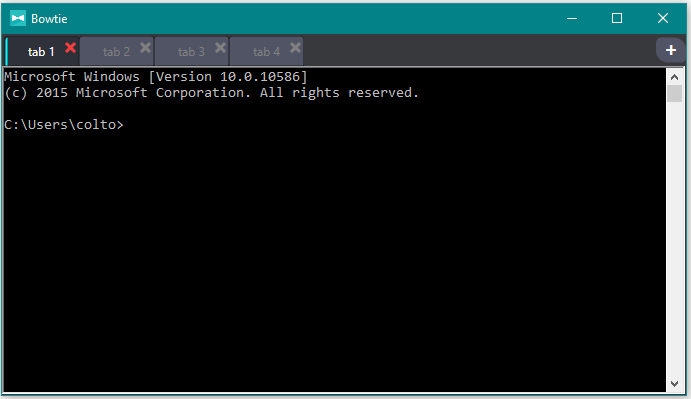
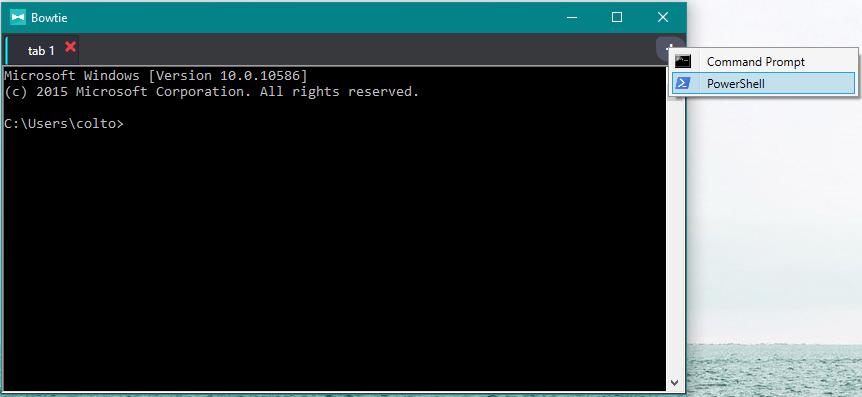
Removed comments, Added powershell, fixed bugs

Changed region(s): [[0.0, 0.0, 1.0, 1.0], [0.699, 0.0302, 0.7294, 0.0605]]

diff --git a/Bowtie/MainWindow.xaml b/Bowtie/MainWindow.xaml
@@ -8,13 +8,6 @@
         mc:Ignorable="d" SizeChanged="Window_SizeChanged"
         Title="Bowtie" Height="400" Width="700" Background="#FF37393C" AllowsTransparency="False"  Icon="Resources\Icon.ico" Closing="Window_Closing">
 	
-	<!--<shell:WindowChrome.WindowChrome>
-		<shell:WindowChrome
-            CornerRadius="15,15,5,5"
-            GlassFrameThickness="0" 
-			CaptionHeight="0">
-		</shell:WindowChrome>
-	</shell:WindowChrome.WindowChrome>-->
 	<Window.Resources>
 		<ResourceDictionary>
 			<Style x:Key="MetroWindowButtonStyle" TargetType="{x:Type Button}">
@@ -64,28 +57,7 @@
 		<Grid.ColumnDefinitions>
 			<ColumnDefinition Width="*" />
 		</Grid.ColumnDefinitions>
-		<!--<Border Grid.Row="0" Background="#FF212229" MouseLeftButtonDown="Border_LeftMouseDown">
-			--><!--Window Icon and Title--><!--
-			<DockPanel>
-				<Image  Source="Resources/Icon.ico" Width="18" Height="18" Margin="10,0,0,0" />
-				<TextBlock Text="Bowtie" Margin="10" 
-				FontFamily="Calibri" FontWeight="Bold" 
-				Foreground="#FF6C6C74" VerticalAlignment="Center"/>
-				<Button Name="Close" DockPanel.Dock="Right" Margin="5" Height="20" Width="20" Style="{DynamicResource MetroWindowButtonStyle}" Click="Close_Click">
-					<Path Data="F1M54.0573,47.8776L38.1771,31.9974 54.0547,16.1198C55.7604,14.4141 55.7604,11.6511 54.0573,9.94531 52.3516,8.23962 49.5859,8.23962 47.8802,9.94531L32.0026,25.8229 16.1224,9.94531C14.4167,8.23962 11.6511,8.23962 9.94794,9.94531 8.24219,11.6511 8.24219,14.4141 9.94794,16.1198L25.8255,32 9.94794,47.8776C8.24219,49.5834 8.24219,52.3477 9.94794,54.0534 11.6511,55.7572 14.4167,55.7585 16.1224,54.0534L32.0026,38.1745 47.8802,54.0534C49.5859,55.7585 52.3516,55.7572 54.0573,54.0534 55.7604,52.3477 55.763,49.5834 54.0573,47.8776z"
-                                Stretch="Uniform" Fill="#FFAAAAAA" Width="10" Margin="0,0,0,0" ></Path>
-				</Button>
-				<Button Name="Maximize" DockPanel.Dock="Right" Margin="5" Height="20" Width="20" Style="{DynamicResource MetroWindowButtonStyle}" Click="Maximize_Click">
-                    <Path Data="M4.3685131,23.127279L4.3685131,47.283243 47.117023,47.283243 47.117023,23.127279z M0,10.684L53.755001,10.684 53.755001,51.668001 0,51.668001z M8.5679998,0L58.668022,0 64,0 64,5.6864691 64,45.317999 58.668022,45.317999 58.668022,5.6864691 8.5679998,5.6864691z"
-                            Stretch="Uniform" Fill="#FFAAAAAA" Width="10" Margin="0,0,0,0" ></Path>
-                </Button>
-				<Button Name="Minimize" HorizontalAlignment="Right" Margin="5" DockPanel.Dock="Right" Height="20" Width="20" Style="{DynamicResource MetroWindowButtonStyle}" Click="Minimize_Click" VerticalContentAlignment="Bottom">
-					<Button.Content>
-						<Path Data="M0,20L53.333,20 53.333,8.888 0,8.888z" Stretch="Uniform" Fill="#FFAAAAAA" Width="10" Margin="0,0,0,5"></Path>
-					</Button.Content>
-				</Button>
-			</DockPanel>
-		</Border>-->
+		
 		<local:BowtieTabControl x:Name="ParentTabControl" Grid.Row="0"/>
 
 	</Grid>

diff --git a/Bowtie/BowtieTabControl.xaml b/Bowtie/BowtieTabControl.xaml
@@ -24,7 +24,7 @@
                           Margin="2,2,2,0"
                           IsItemsHost="true"/>
 				</ScrollViewer>
-				<local:BowtieTabAddButton  Grid.Row="0" Grid.Column="1" HorizontalAlignment="Right" Click="BowtieTabAddButton_Click"/>
+				<local:BowtieTabAddButton Grid.Row="0" Grid.Column="1" HorizontalAlignment="Right" Click="BowtieTabAddButton_Click" MouseRightButtonDown="BowtieTabAddButton_MouseRightButtonDown" />
 				<ContentPresenter x:Name="PART_SelectedContentHost"
                                       SnapsToDevicePixels="{TemplateBinding SnapsToDevicePixels}"
                                       Margin="{TemplateBinding Padding}"

diff --git a/Bowtie/BowtieTabControl.xaml.cs b/Bowtie/BowtieTabControl.xaml.cs
@@ -1,6 +1,12 @@
-using System.Windows;
+using System;
+using System.Drawing;
+using System.IO;
+using System.Windows;
 using System.Windows.Controls;
 using System.Windows.Input;
+using System.Windows.Media;
+using System.Windows.Media.Imaging;
+using System.Windows.Shapes;
 
 namespace Bowtie
 {
@@ -9,13 +15,12 @@ namespace Bowtie
 	/// </summary>
 	public partial class BowtieTabControl : TabControl
 	{
+		private int _tabCount;
 		public BowtieTabControl()
 		{
 			InitializeComponent();
 			//add a tab
-			BowtieTabItem defaultTab = new BowtieTabItem();
-			defaultTab.Header = "tab 1";
-			Items.Add(defaultTab);
+			AddNewTab();
 		}
 
 		private void TabItem_PreviewMouseMove(object sender, MouseEventArgs e)
@@ -55,8 +60,13 @@ namespace Bowtie
 		
 		private void BowtieTabAddButton_Click(object sender, RoutedEventArgs e)
 		{
-			BowtieTabItem tab = new BowtieTabItem();
-			tab.Header = "tab " + (this.Items.Count + 1);
+			AddNewTab();
+		}
+
+		private void AddNewTab(string app = "cmd.exe")
+		{
+			BowtieTabItem tab = new BowtieTabItem(app);
+			tab.Header = "tab " + (_tabCount++ + 1);
 			Items.Add(tab);
 			this.SelectedIndex = this.Items.IndexOf(tab);
 			tab.Focus();
@@ -64,7 +74,12 @@ namespace Bowtie
 
 		private void CloseButton_MouseLeftButtonDown(object sender, MouseButtonEventArgs e)
 		{
-			this.Items.Remove(this.SelectedItem);
+			var grid = VisualTreeHelper.GetParent(sender as System.Windows.Shapes.Path);
+			var border = VisualTreeHelper.GetParent(grid);
+			grid = VisualTreeHelper.GetParent(border);
+			BowtieTabItem tab = VisualTreeHelper.GetParent(grid) as BowtieTabItem;
+			tab.Close();
+			this.Items.Remove(tab);
 		}
 
 		private void TabControl_SelectionChanged(object sender, SelectionChangedEventArgs e)
@@ -74,6 +89,60 @@ namespace Bowtie
 				if (item != SelectedItem)
 					item.Hide();
 			}
+		}
+
+		private void BowtieTabAddButton_MouseRightButtonDown(object sender, MouseButtonEventArgs e)
+		{
+			StreamWriter sw = new StreamWriter("test.ico");
+			Icon.ExtractAssociatedIcon("C:\\Windows\\System32\\WindowsPowerShell\\v1.0\\powershell.exe").Save(sw.BaseStream);
+			sw.Close();
+			var image = new System.Windows.Controls.Image();
+			//image.Source = new Bitmap(Properties.Resources.PS);
+			ContextMenu menu = new ContextMenu();
+			MenuItem cmdItem = new MenuItem()
+			{ 
+				Header = "Command Prompt",
+				Icon = new System.Windows.Controls.Image
+				{
+					Source = new BitmapImage(
+					new Uri("pack://application:,,,/Resources/cmd.ico"))
+				}
+			};
+			cmdItem.Click += (object o, RoutedEventArgs args) => AddNewTab();
+			menu.Items.Add(cmdItem);
+
+			string regval = Microsoft.Win32.Registry.GetValue(@"HKEY_LOCAL_MACHINE\SOFTWARE\Microsoft\PowerShell\1", "Install", null).ToString();
+			if (regval.Equals("1"))
+			{
+				MenuItem psItem = new MenuItem()
+				{
+					Header = "PowerShell",
+					Icon = new System.Windows.Controls.Image
+					{
+						Source = new BitmapImage(
+						new Uri("pack://application:,,,/Resources/PS.ico"))
+					}
+				};
+				psItem.Click += (object o, RoutedEventArgs args) => AddNewTab("powershell.exe");
+				menu.Items.Add(psItem);
+			}
+			var button = (sender as BowtieTabAddButton);
+			button.ContextMenu = menu;
+		}
+
+		public static string GetFullPath(string fileName)
+		{
+			if (File.Exists(fileName))
+				return System.IO.Path.GetFullPath(fileName);
+
+			var values = Environment.GetEnvironmentVariable("PATH");
+			foreach (var path in values.Split(';'))
+			{
+				var fullPath = System.IO.Path.Combine(path, fileName);
+				if (File.Exists(fullPath))
+					return fullPath;
+			}
+			return null;
 		}
 	}
 }

diff --git a/Bowtie/MainWindow.xaml.cs b/Bowtie/MainWindow.xaml.cs
@@ -1,4 +1,5 @@
-using System.Windows;
+using System;
+using System.Windows;
 
 namespace Bowtie
 {
@@ -10,42 +11,12 @@ namespace Bowtie
 		public MainWindow()
 		{
 			InitializeComponent();
+			if(Environment.OSVersion.Version.Major <= 6 && Environment.OSVersion.Version.Minor < 2)//windows 7 has this width limitation
+			{
+				this.MaxWidth = 650;
+			}
 		}
-
-		//private void Border_LeftMouseDown(object sender, MouseButtonEventArgs e)
-		//{
-		//	if (e.ClickCount == 2)
-		//	{
-		//		Maximize_Click(sender, e);
-		//	}
-		//	else if (e.ChangedButton == MouseButton.Left)
-		//	{ 
-		//		this.DragMove();
-		//	}
-		//}
-
-		//private void Close_Click(object sender, RoutedEventArgs e)
-		//{
-		//	SystemCommands.CloseWindow(this);
-		//}
-
-		//private void Maximize_Click(object sender, RoutedEventArgs e)
-		//{
-		//	if (this.WindowState == WindowState.Maximized)
-		//	{
-		//		SystemCommands.RestoreWindow(this);
-		//	}
-		//	else
-		//	{
-		//		SystemCommands.MaximizeWindow(this);
-		//	}
-		//}
-
-		//private void Minimize_Click(object sender, RoutedEventArgs e)
-		//{
-		//	SystemCommands.MinimizeWindow(this);
-		//}
-
+		
 		private void Window_Closing(object sender, System.ComponentModel.CancelEventArgs e)
 		{
 			foreach(BowtieTabItem tab in ParentTabControl.Items)

diff --git a/Bowtie/BowtieTabItem.xaml.cs b/Bowtie/BowtieTabItem.xaml.cs
@@ -31,7 +31,7 @@ namespace Bowtie
 		[DllImport("user32.dll", SetLastError = true)]
 		private static extern bool MoveWindow(IntPtr hwnd, int x, int y, int cx, int cy, bool repaint);
 
-
+		private string _executable;
 		public Process _process;
 
 		private IntPtr _processHandle = IntPtr.Zero;
@@ -45,7 +45,7 @@ namespace Bowtie
 				_loaded = true;
 				_process = Process.Start(new ProcessStartInfo
 				{
-					FileName = "cmd.exe",
+					FileName = _executable,
 					UseShellExecute = false,
 					WorkingDirectory = Environment.CurrentDirectory,
 					LoadUserProfile = true
@@ -60,12 +60,13 @@ namespace Bowtie
 				ConsoleHost.Focus();
 			}
 		}
-		public BowtieTabItem()
+		public BowtieTabItem(string app)
 		{
 			InitializeComponent();
 			this.SizeChanged += new SizeChangedEventHandler(OnSizeChanged);
 			this.Loaded += new RoutedEventHandler(OnVisibleChanged);
 			this.SizeChanged += new SizeChangedEventHandler(OnResize);
+			_executable = app;
 		}
 
 		internal void Hide()
@@ -107,6 +108,7 @@ namespace Bowtie
 		private void TabItem_GotFocus(object sender, RoutedEventArgs e)
 		{
 			Show();
+			this.InvalidateVisual();
 			ConsoleHost.UpdateLayout();
 			OnResize(sender, null);
 		}
